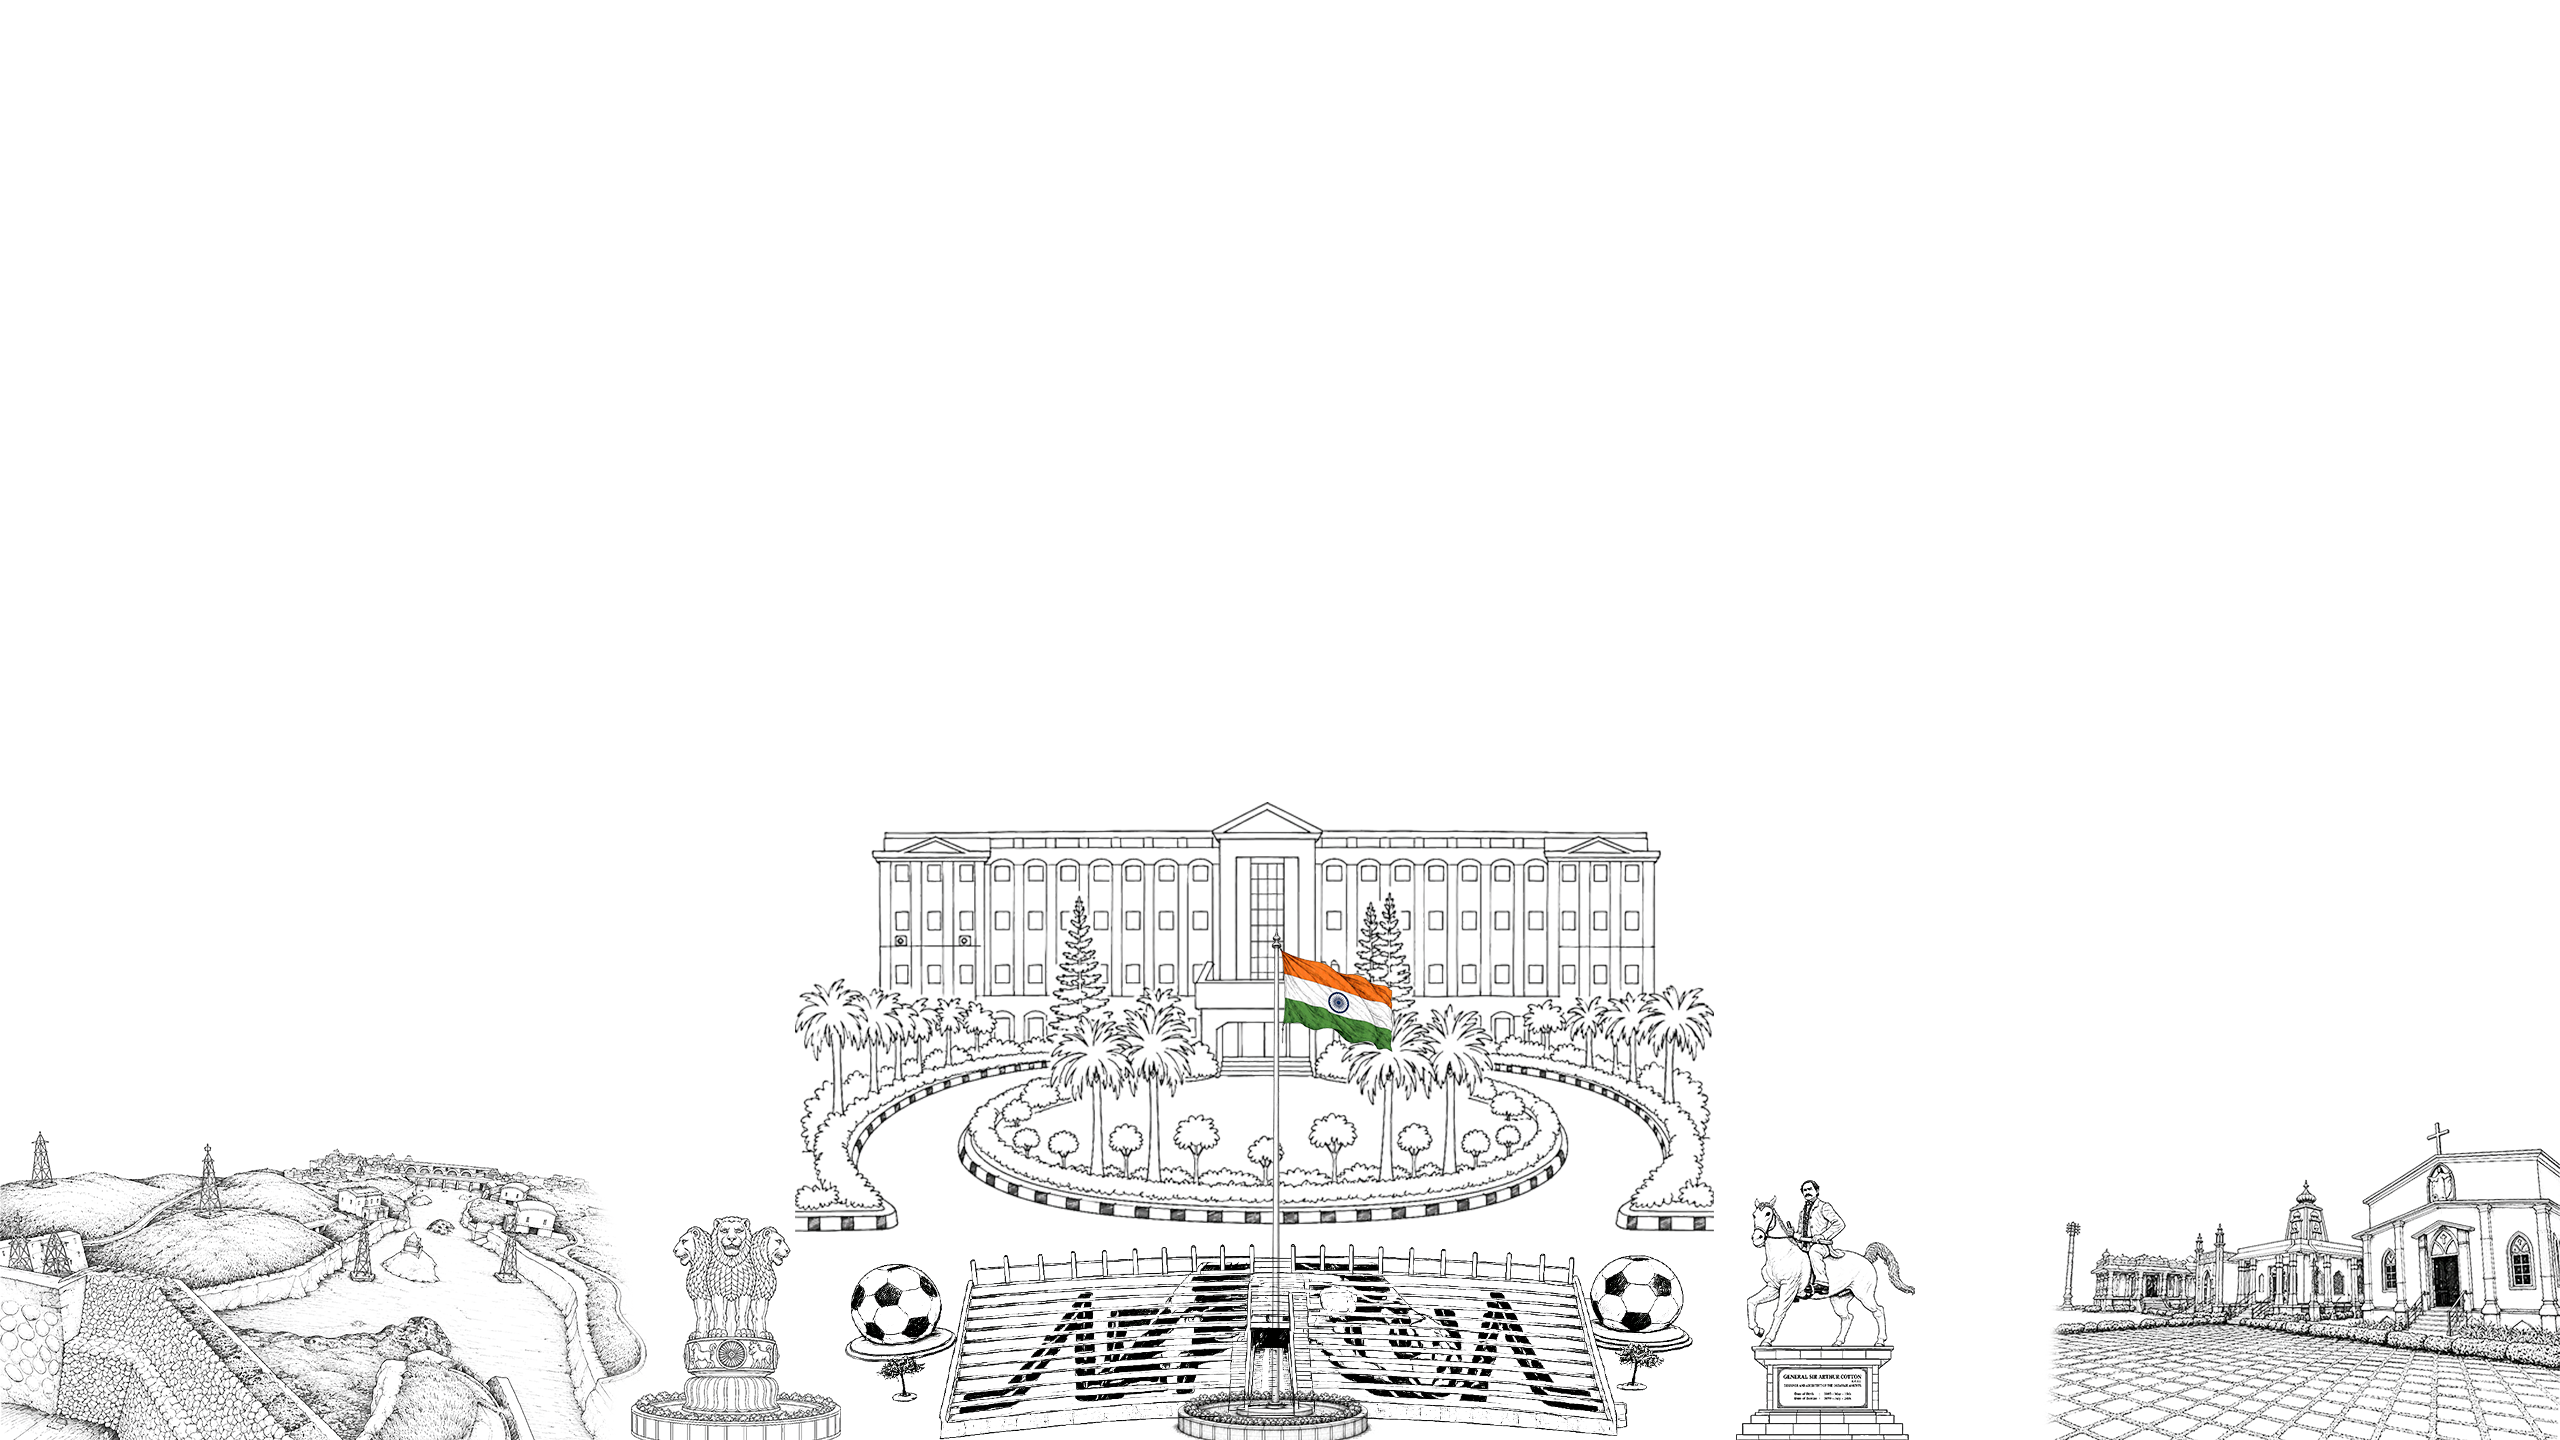
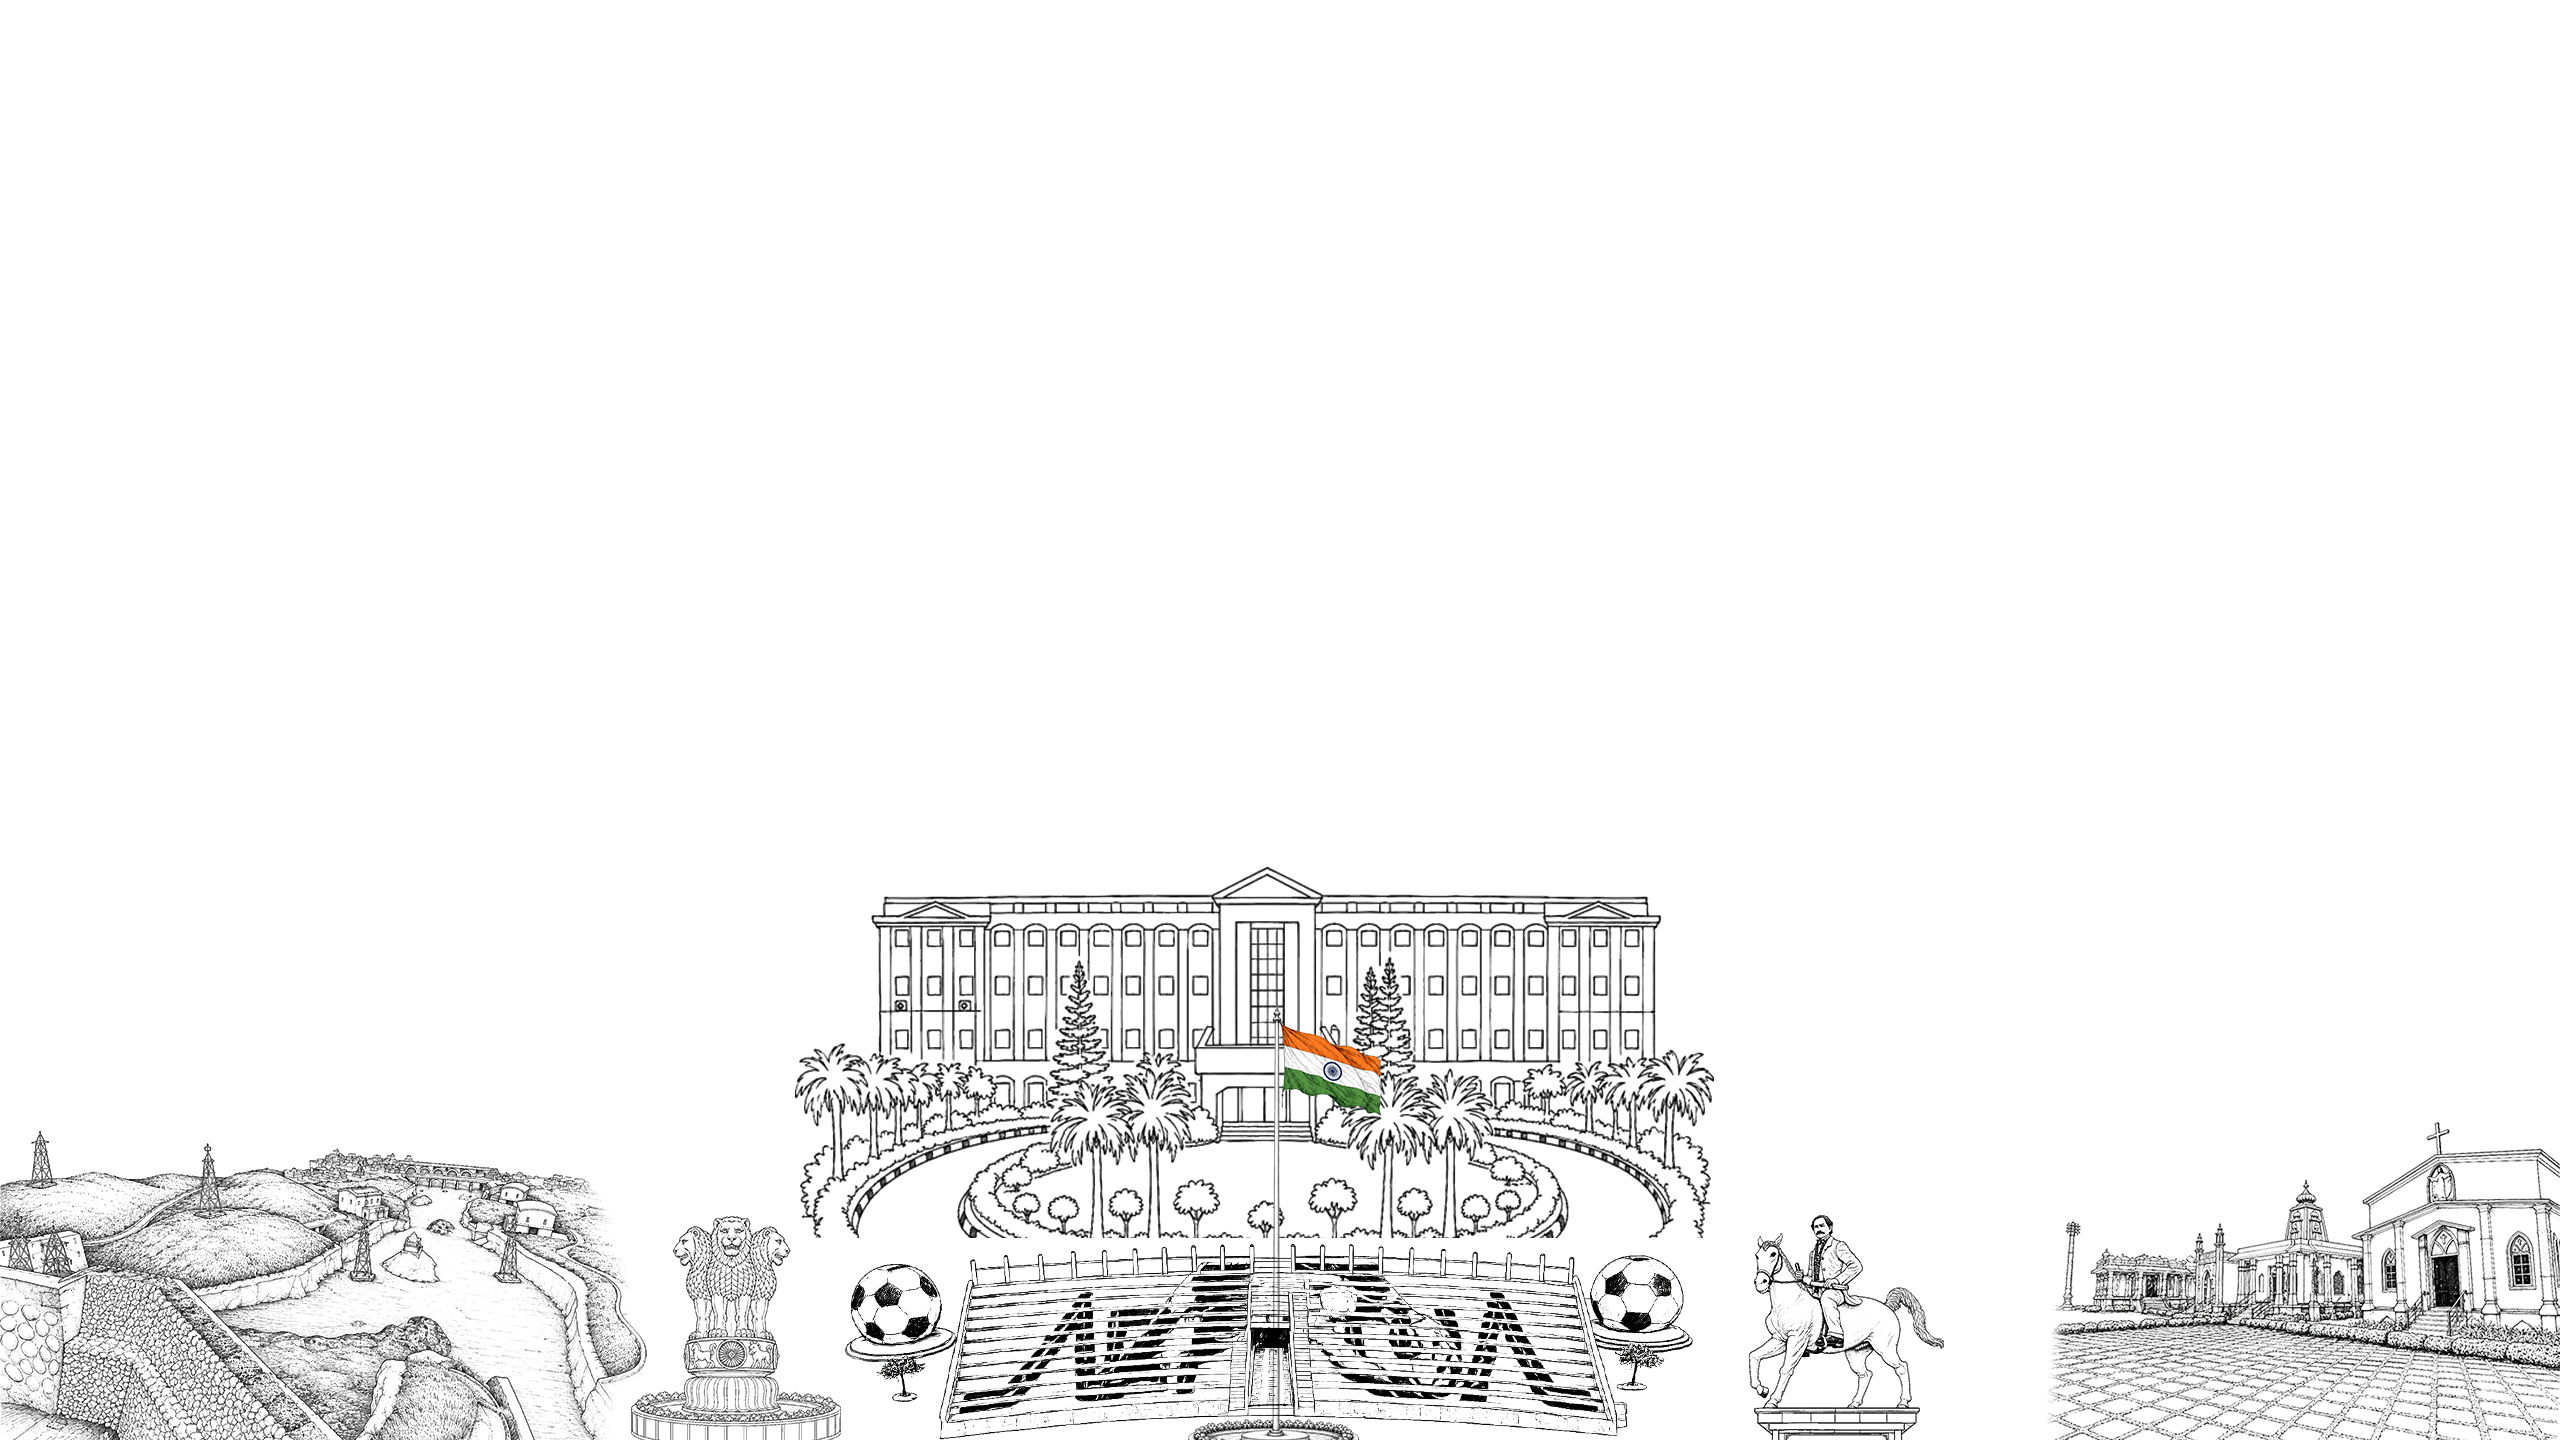
chnages

Changed region(s): [[0.3125, 0.5625, 0.75, 1.0], [0.0, 0.7812, 0.25, 1.0], [0.4375, 0.9688, 0.5312, 1.0]]

diff --git a/assets/main.css b/assets/main.css
@@ -274,7 +274,7 @@ body::after {
     max-width: min(1755px, 82vw);
     width: 100%;
     margin: 0 auto;
-    padding: 40px 15px 20px 15px;
+    padding: 0 15px 20px 15px;
     z-index: 5;
 }
 
@@ -469,7 +469,7 @@ body::after {
     flex-direction: column;
     align-items: flex-end;
     justify-content: flex-start;
-    gap: 40px;
+    gap: 20px;
 }
 
 /* Login Card */
@@ -753,7 +753,7 @@ body::after {
 
 /* Footer Links */
 .footer-right {
-    margin-top: 25px;
+    margin-top: 0;
     width: 100%;
     max-width: 390px;
     display: flex;
